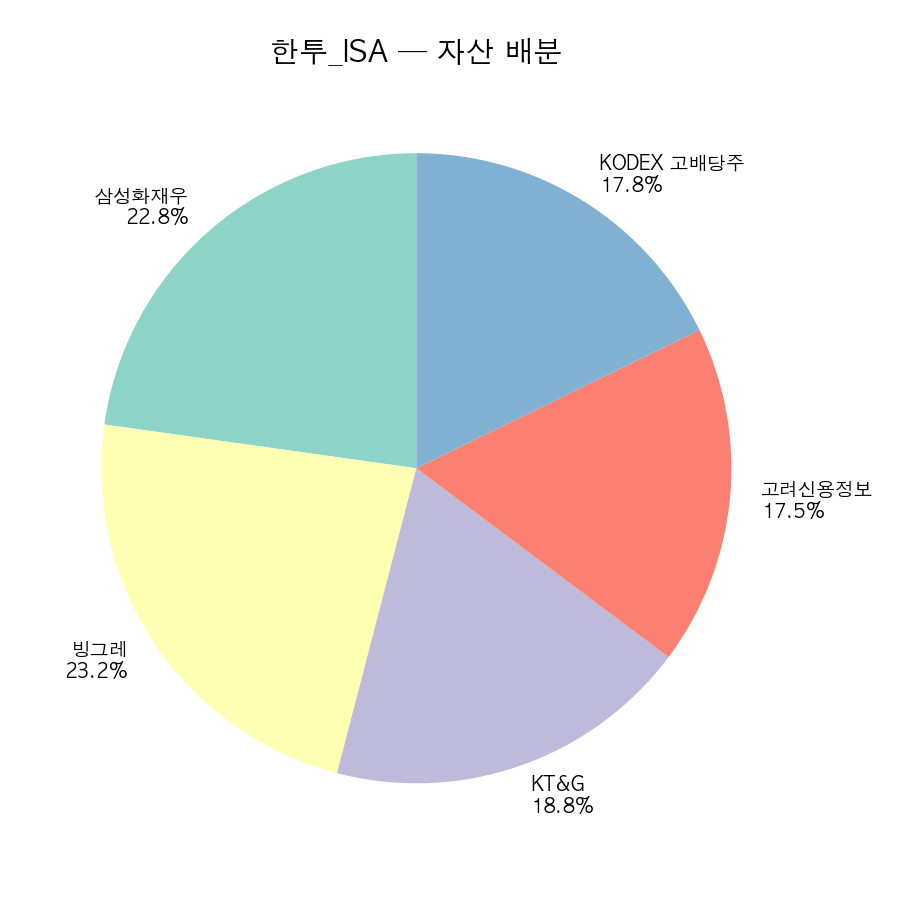
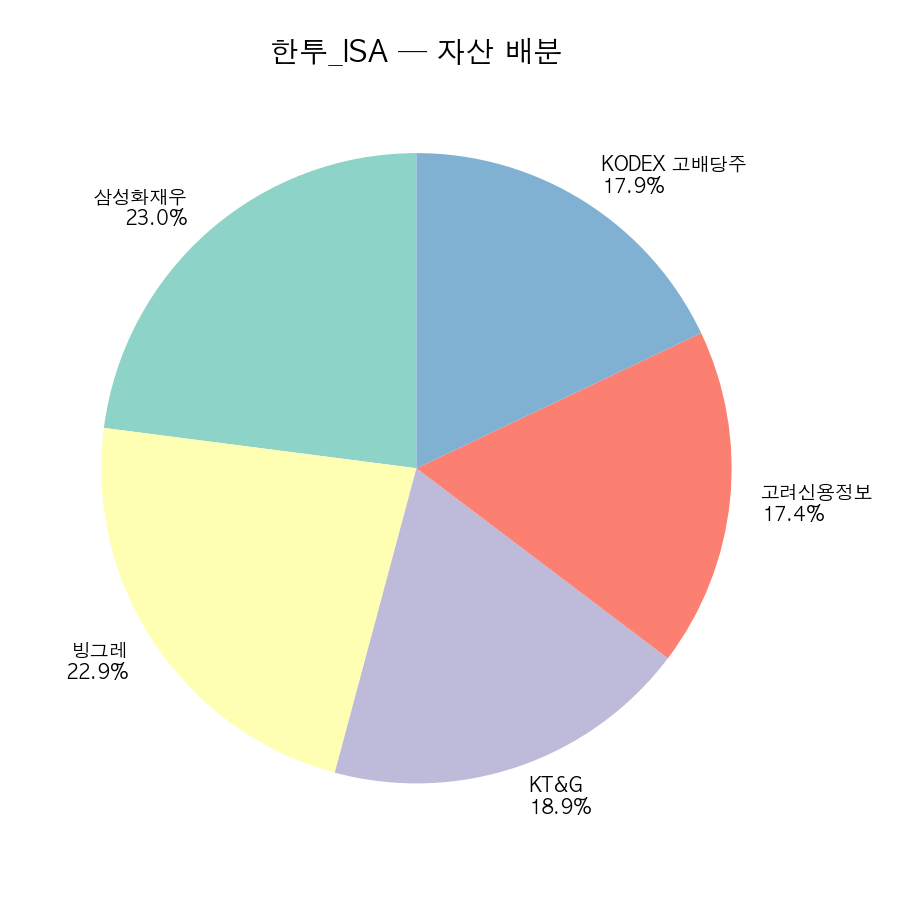
섹션별 주간 리포트 (자동 생성)

diff --git a/_posts/2026-08-28-etf-weekly-week21.md b/_posts/2026-08-28-etf-weekly-week21.md
@@ -1,0 +1,55 @@
+---
+layout: post
+title: "Week 21 — 부모님 연금 ETF 주간 리포트"
+date: 2026-08-28
+categories: [investing, etf]
+tags: [weekly]
+---
+
+> 부모님 연금저축 ETF 실험 — 21주차 기록.
+
+---
+
+## 21주차 성과
+
+### 엄마_연금
+
+| 종목 | 수량 | 평단가 | 종가 | 평가액 | 수익률 |
+|------|------|--------|------|--------|--------|
+| ACE KRX금현물 | 43주 | ₩30,797 | ₩28,390 | ₩1,220,770 | -7.8% |
+| RISE 200 | 11주 | ₩84,442 | ₩108,020 | ₩1,188,220 | +27.9% |
+| KODEX 미국S&P500 | 37주 | ₩23,096 | ₩23,890 | ₩883,930 | +3.4% |
+| TIGER Fn신재생에너지 | 29주 | ₩27,378 | ₩26,030 | ₩754,870 | -4.9% |
+| KODEX 인도Nifty50 | 37주 | ₩12,506 | ₩11,645 | ₩430,865 | -6.9% |
+| TIGER 원유선물Enhanced(H) | 41주 | ₩6,413 | ₩6,860 | ₩281,260 | +7.0% |
+
+**투자 ₩4,627,327 → 평가 ₩4,759,915 | +132,588원 (+2.9%)**
+
+예수금: ₩1,996,699
+---
+
+### 아빠_연금
+
+| 종목 | 수량 | 평단가 | 종가 | 평가액 | 수익률 |
+|------|------|--------|------|--------|--------|
+| ACE KRX금현물 | 43주 | ₩30,799 | ₩28,390 | ₩1,220,770 | -7.8% |
+| RISE 200 | 11주 | ₩84,479 | ₩108,020 | ₩1,188,220 | +27.9% |
+| KODEX 미국S&P500 | 37주 | ₩23,094 | ₩23,890 | ₩883,930 | +3.4% |
+| TIGER Fn신재생에너지 | 29주 | ₩27,371 | ₩26,030 | ₩754,870 | -4.9% |
+| KODEX 인도Nifty50 | 37주 | ₩12,515 | ₩11,645 | ₩430,865 | -7.0% |
+| TIGER 원유선물Enhanced(H) | 41주 | ₩6,405 | ₩6,860 | ₩281,260 | +7.1% |
+| PLUS 고배당주 | 1주 | ₩25,370 | ₩25,505 | ₩25,505 | +0.5% |
+
+**투자 ₩4,652,922 → 평가 ₩4,785,420 | +132,498원 (+2.8%)**
+
+예수금: ₩1,381,548
+
+
+## 8월 월간 정리
+
+- **엄마_연금**: 월초 -4.5% → 월말 +2.9% (+7.3%p)
+- **아빠_연금**: 월초 -4.5% → 월말 +2.8% (+7.3%p)
+
+---
+
+*데이터: 한국투자증권 KIS Open API / 2026-08-28 장 마감 기준*

diff --git a/_posts/2026-08-28-dividend-weekly-week21.md b/_posts/2026-08-28-dividend-weekly-week21.md
@@ -1,0 +1,40 @@
+---
+layout: post
+title: "Week 21 — ISA 배당 포트 주간 리포트"
+date: 2026-08-28
+categories: [investing, dividend]
+tags: [weekly]
+---
+
+> ISA 배당 포트폴리오 — 21주차 기록.
+
+---
+
+## 21주차 성과
+
+### 한투_ISA
+
+| 종목 | 수량 | 평단가 | 종가 | 평가액 | 수익률 |
+|------|------|--------|------|--------|--------|
+| 삼성화재우 | 5주 | ₩374,400 | ₩429,000 | ₩2,145,000 | +14.6% |
+| 빙그레 | 23주 | ₩73,386 | ₩92,900 | ₩2,136,700 | +26.6% |
+| KT&G | 10주 | ₩168,190 | ₩176,300 | ₩1,763,000 | +4.8% |
+| KODEX 고배당주 | 94주 | ₩18,052 | ₩17,835 | ₩1,676,490 | -1.2% |
+| 고려신용정보 | 175주 | ₩10,209 | ₩9,270 | ₩1,622,250 | -9.2% |
+
+**투자 ₩8,725,338 → 평가 ₩9,343,440 | +618,102원 (+7.1%)**
+
+예수금: ₩241,050
+
+**이번 주 배당 입금:**
+
+- 2026-08-28 배당금: ₩188,018
+
+
+## 8월 월간 정리
+
+- **한투_ISA**: 월초 -2.8% → 월말 +7.1% (+9.9%p)
+
+---
+
+*데이터: 한국투자증권 KIS Open API / 2026-08-28 장 마감 기준*
